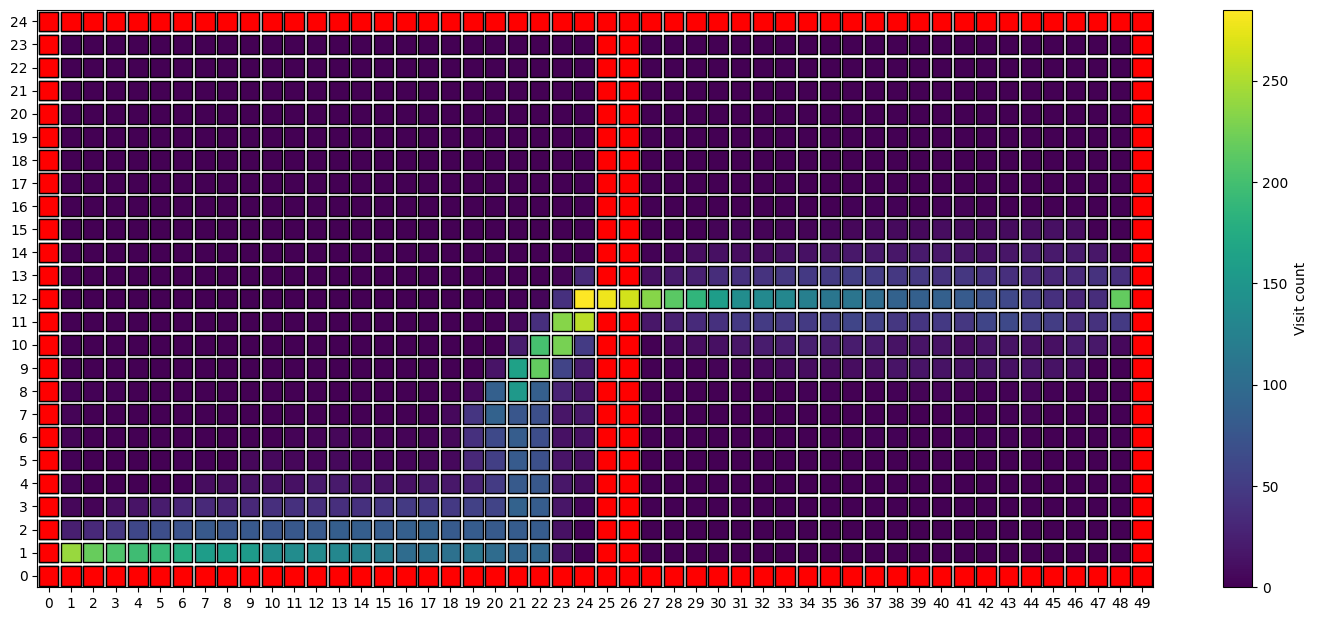
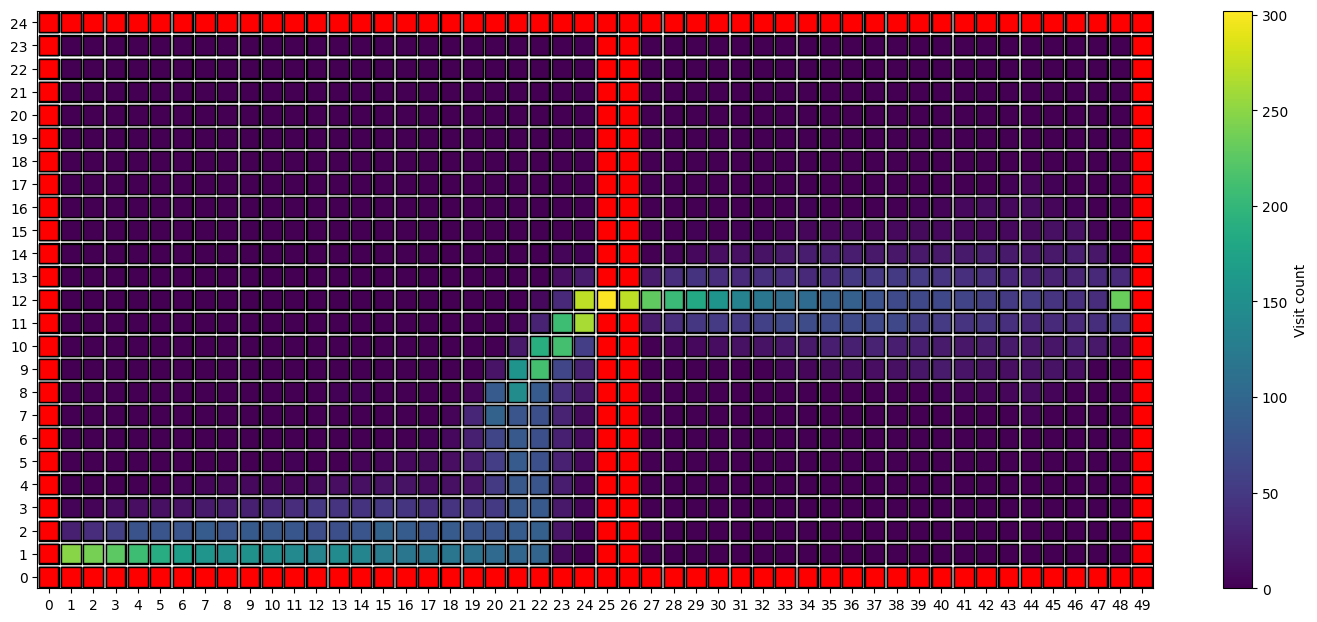
Updated 1/C and 1/D

diff --git a/Q1/C/c.py b/Q1/C/c.py
@@ -527,6 +527,24 @@ for i in range(50):
                     pos_actions.append(action)
             optimal_policy[i][j] = np.random.choice(pos_actions, 1)[0]
 
+
+def arrow_coordinates(i, j, action):
+    if action == 'Up':
+        return i, j + 0.1, 0, 0.7
+    elif action == 'Down':
+        return i, j - 0.1, 0, -0.7
+    elif action == 'Left':
+        return i - 0.1, j, -0.7, 0
+    elif action == 'Right':
+        return i + 0.1, j, 0.7, 0
+
+all_arrows = []
+for i in range(50):
+    for j in range(25):
+        if optimal_policy[i][j] != None:
+            x, y, dx, dy = arrow_coordinates(i, j, optimal_policy[i][j])
+            all_arrows.append((x, y, dx, dy))
+
 start_x, start_y = 1, 1
 # Draw sample execution of optimal policy
 test_agent = Agent(start_x, start_y, grid_world)
@@ -556,15 +574,21 @@ scat1 = plt.scatter(all_points[:, 1], all_points[:, 0], s=200, facecolor='w', ed
 scat2 = plt.scatter([x[0] for x in all_walls], [x[1] for x in all_walls], s=200, c=wall_color, edgecolors='k', marker=marker)
 scat3 = plt.scatter([test_agent.state_history[i][0] for i in range(len(test_agent.state_history))], [test_agent.state_history[i][1] for i in range(len(test_agent.state_history))], s=200, c=X, cmap=cmap, facecolor='w', edgecolors='k', marker=marker)
 
+for i in range(len(all_arrows)):
+    plt.arrow(all_arrows[i][0], all_arrows[i][1], all_arrows[i][2], all_arrows[i][3], length_includes_head=True, head_width=0.15, edgecolor='royalblue', facecolor='y')
+
 norm = colors.Normalize(vmin=1, vmax=len(test_agent.state_history))
 sm = plt.cm.ScalarMappable(cmap=cmap, norm=norm)
 plt.colorbar(sm, label='Steps')
 plt.savefig('c_test_run.png', bbox_inches='tight')
 plt.show()
 
+
+
+
+
 # Count visits    
-visit_count = [[0 for j in range(25)] for i in range(50)]
-visit_count = np.array(visit_count, dtype=int)
+visit_count = np.zeros((50, 25), dtype=int)
 
 # Run episodes
 episode_sz = 75
@@ -595,14 +619,16 @@ P = np.arange(25)
 Q = np.arange(50)
 all_points = np.dstack(np.meshgrid(P, Q)).reshape(-1, 2)
 X = visit_count.reshape(-1, 1)
+# X = np.log(X)
 cmap = 'viridis'
+scat3 = plt.scatter(all_points[:, 1], all_points[:, 0], s=200, facecolor='w', edgecolors='k', marker=marker)
 scat1 = plt.scatter(all_points[:, 1], all_points[:, 0], c=X[:, 0], cmap=cmap, s=200, facecolor='w', edgecolors='k', marker=marker)
 # for i in range(50):
 #     for j in range(25):
 #         plt.text(i, j, str(visit_count[i, j]))
 scat2 = plt.scatter([x[0] for x in all_walls], [x[1] for x in all_walls], s=200, c=wall_color, edgecolors='k', marker=marker)
 
-norm = colors.Normalize(vmin=np.min(visit_count), vmax=np.max(visit_count))
+norm = colors.Normalize(vmin=np.min(X), vmax=np.max(X))
 sm = plt.cm.ScalarMappable(cmap=cmap, norm=norm)
 plt.colorbar(sm, label='Visit count')
 plt.savefig('c_' + str(episode_sz) + '.png', bbox_inches='tight')

diff --git a/Q1/D/d.py b/Q1/D/d.py
@@ -297,7 +297,7 @@ all_delta_99 = []
 prev_optimal_policy_99 = None
 no_policy_change_99 = 0
 checker_99 = True
-iteration_99 = None
+iteration_99 = 1
 
 while iterations_99 < 100:      # delta_99 > theta
     V_dash = np.zeros((50, 25))
@@ -535,7 +535,7 @@ all_delta_01 = []
 prev_optimal_policy_01 = None
 no_policy_change_01 = 0
 checker_01 = True
-iteration_01 = None
+iteration_01 = 1
 
 while iterations_01 < 100:     # delta_01 > theta
     V_dash = np.zeros((50, 25))
